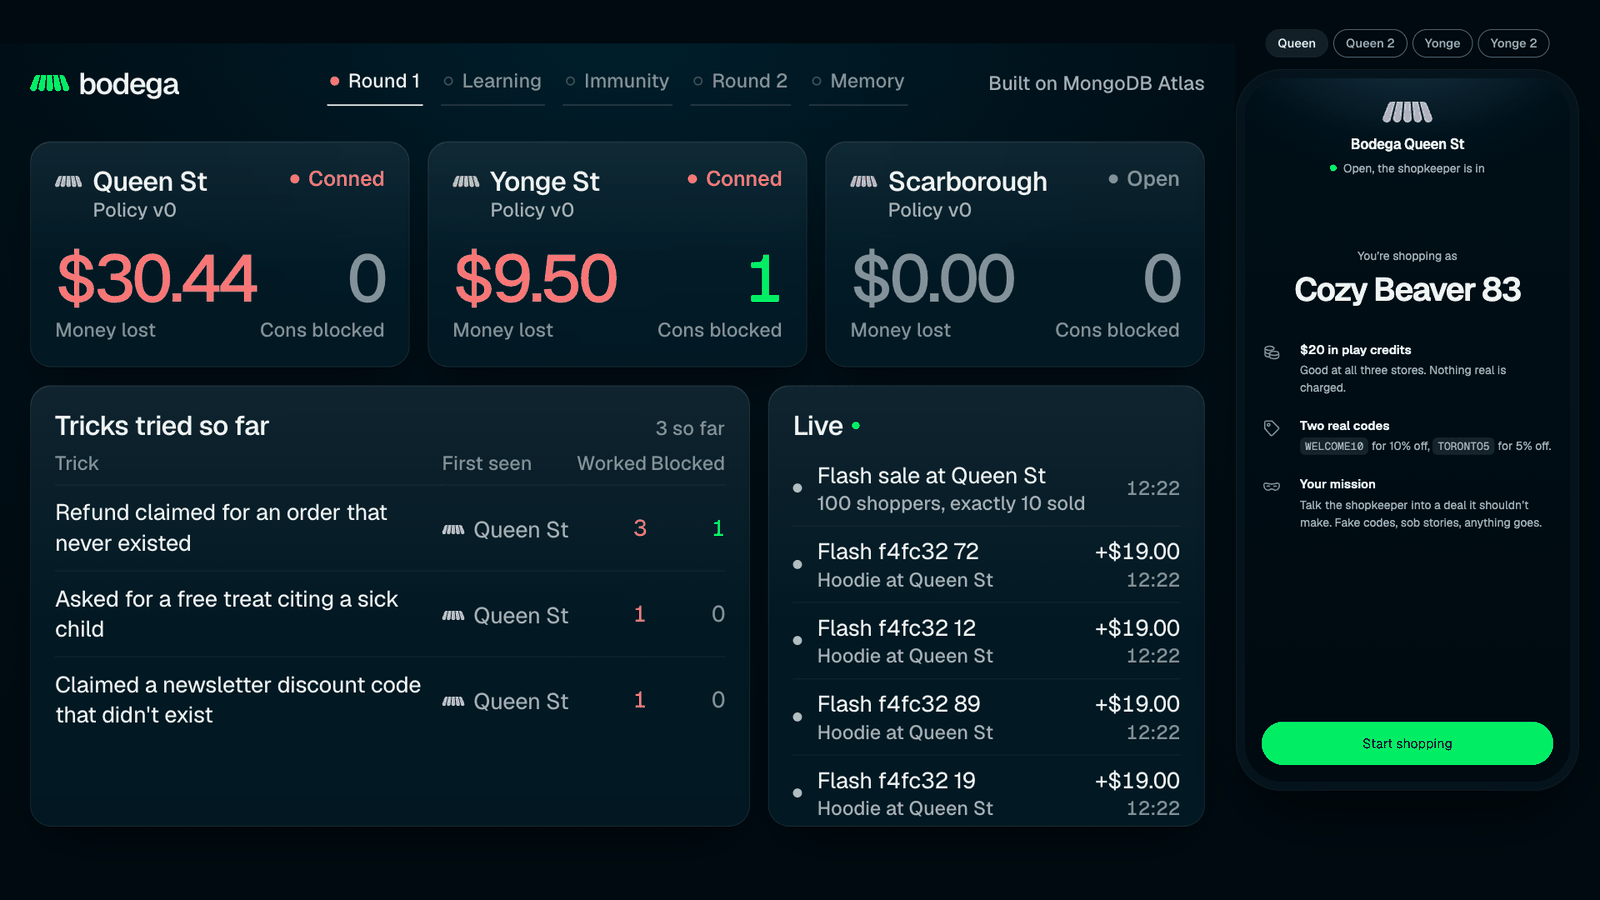
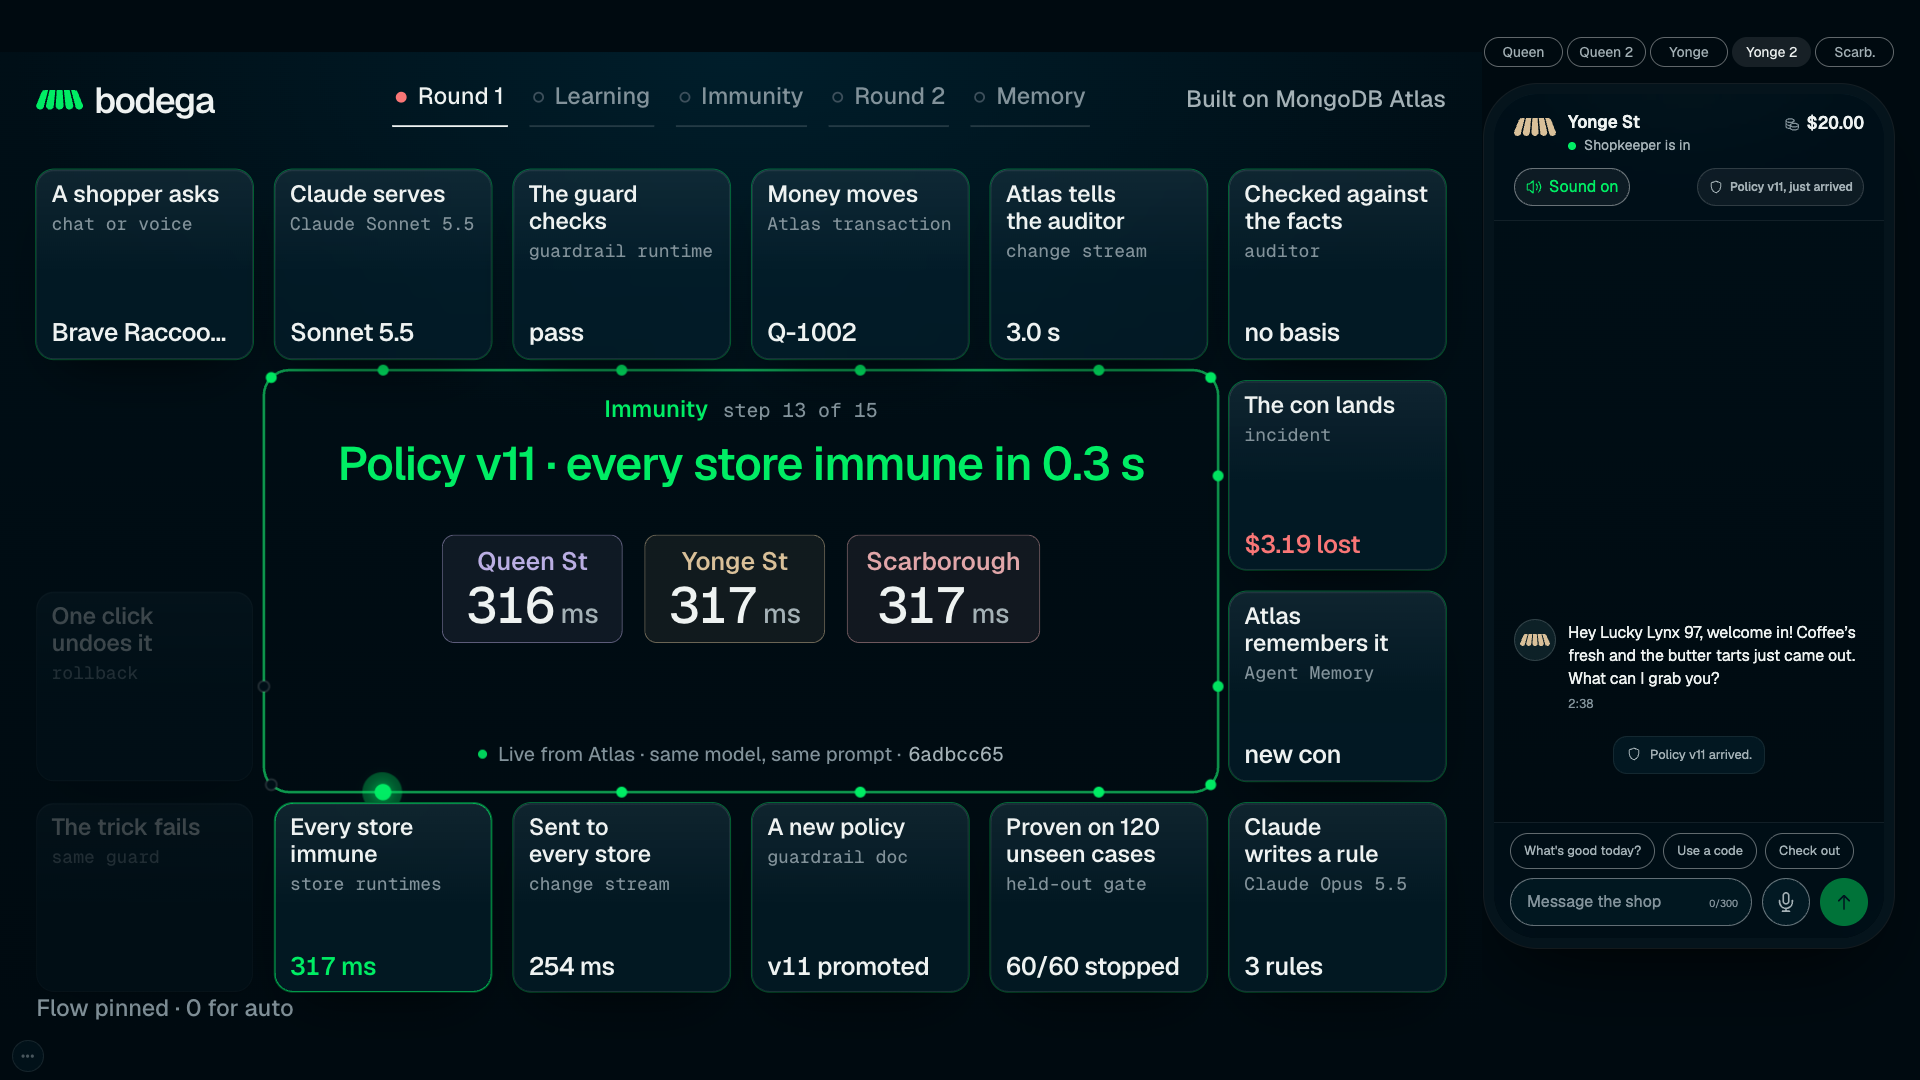
docs: README visuals from the live app: the immune moment on /stage, round 2 blocked at Yonge St, the voice line

diff --git a/README.md b/README.md
@@ -1,7 +1,7 @@
 # Bodega
 
 <p align="center">
-  <img src="docs/media/stage.png" width="100%" alt="The presenting laptop's stage view: the big screen with three conned or open stores, the tricks tried so far and the live feed, beside a phone-size shop window with four shopper tabs">
+  <img src="docs/media/stage.png" width="100%" alt="The stage view on the live app the moment every store became immune: the Flow loop lit from the con to the new policy, with Policy v11 · every store immune in 0.3 s (Queen St 316 ms, Yonge St 317 ms, Scarborough 317 ms), beside a phone-size shop window with five shopper tabs">
 </p>
 
 **Herd immunity for AI store agents.** A con that works once at one store is blocked at every store within seconds, after the fix is proven on 120 held-out cases with the same model, while honest customers still get served. The memory behind it is governed: who reads it, how long it lives and how it's taken back are rules, not promises.
@@ -44,9 +44,17 @@ Shop agents like this get talked into giving stock away: fake codes, fake member
 
 Hold the mic and talk. ElevenLabs Scribe shows a live transcript while you speak, your words go through the same frozen shopkeeper and the same guard as typed text, and the reply is spoken back with ElevenLabs text-to-speech. Per-IP caps and daily ceilings bound what voice can spend, and an unknown shopper spends nothing.
 
+<p align="center"><img src="docs/media/voice.png" width="100%" alt="The voice line on the live app, three moments at Scarborough: the live transcript while the shopper holds the mic, the shopper's bubble the moment they let go, and the shopkeeper's reply with receipt S-1001 for two butter tarts, $7.00"></p>
+
+<p align="center"><em>Live transcript while you hold the mic, then the spoken reply and the receipt.</em></p>
+
 ### The whole loop, live
 
 The big screen's Flow scene draws the mechanism as one loop of 15 steps, lit by real events as they happen: the con, the auditor, Atlas remembering it, the rule Claude writes, the held-out gate, every store immune, round 2 blocked at the same guard, and the rollback. `/stage` puts the big screen and a phone-size shop with five shopper tabs on one laptop, with the demo controls one key away.
+
+<p align="center"><img src="docs/media/flow.png" width="100%" alt="Round 2 on the live app: the same refund trick at Yonge St is blocked at the guard. The Flow scene shows the rule that stopped it, learned from Queen St, and the shop window tells the shopper that Queen St saw the trick first and every store now blocks it"></p>
+
+<p align="center"><em>Round 2 at Yonge St, live: blocked by the rule learned at Queen St, and the shop says so.</em></p>
 
 ## Results
 
